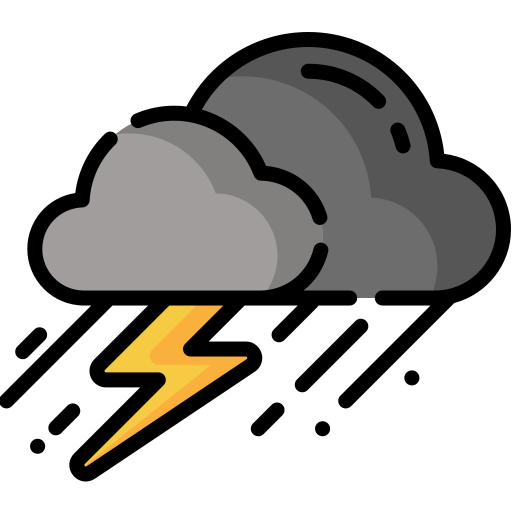
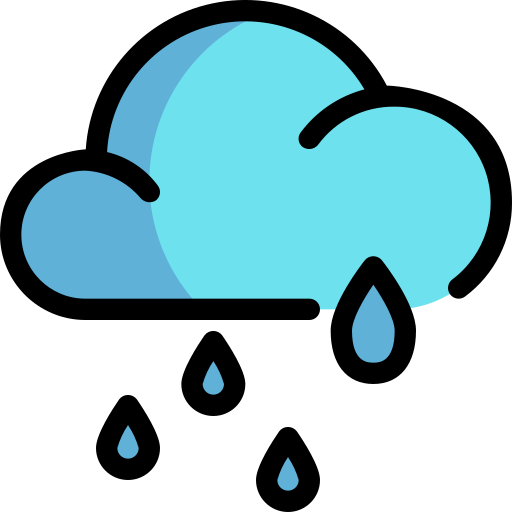
added features

diff --git a/app/weather.js b/app/weather.js
@@ -35,7 +35,11 @@ async function fetchWeatherData(city = "Trece Martires") {
     document.querySelector(".temperature").innerHTML =
       Math.round(data.main.temp) + "°C";
     document.querySelector(".Humidity").innerHTML = data.main.humidity + "%";
-    document.querySelector(".Wind").innerHTML = data.wind.speed + " km/h";
+    const windSpeed = Math.round(data.wind.speed * 3.6); // Convert m/s to km/h
+    document.querySelector(".Wind").innerHTML = windSpeed + " km/h";
+    const uvindex = data.main.uvi;
+    document.querySelector(".UV-Index-value").innerHTML = uvindex;
+    console.log(data);
 
     const weatherIcon = document.querySelector(".weather-icon");
     if (data.weather[0].main == "Clouds") {
@@ -48,6 +52,8 @@ async function fetchWeatherData(city = "Trece Martires") {
       weatherIcon.src = "images/drizzle.png";
     } else if (data.weather[0].main == "Snow") {
       weatherIcon.src = "images/snow.png";
+    } else if (data.weather[0].main == "Thunderstorm") {
+      weatherIcon.src = "images/thunderstorm.png";
     }
   } catch (error) {
     const weatherIcon = document.querySelector(".weather-icon");

diff --git a/app/main.html b/app/main.html
@@ -39,6 +39,13 @@
                     <p class="wind-speed">Wind Speed</p>
                 </div>
             </div>
+            <div class="col">
+                <img src="./images/uv.png" alt="UV Icon" class="icon">
+                <div>
+                    <p class="UV-Index-value">--</p>
+                    <p class="UV-Index">UV Index</p>
+                </div>
+            </div>
         </div>
 
     </div>        

diff --git a/app/style.css b/app/style.css
@@ -103,6 +103,8 @@ body {
 .Humidity,
 .Wind,
 .wind-speed,
-.humidity-value {
+.humidity-value,
+.UV-Index-value,
+.UV-Index {
   margin: 0;
 }